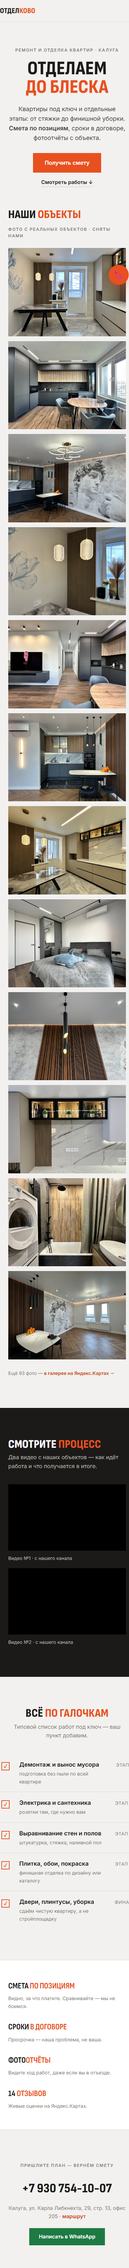
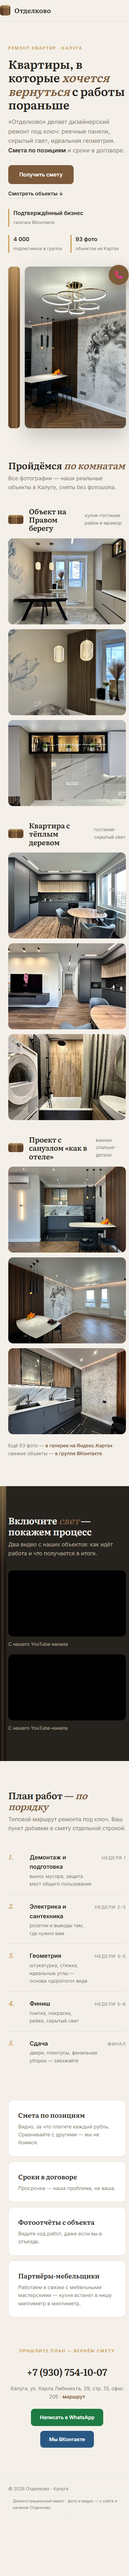
Отделково v3: интерьерный стиль по frontend-design (рейки-мотив, Literata, палитра из их фото), факты ВК (4000 подписчиков), объекты «комнатами»

diff --git a/demos/remont-otdelkovo/index.html b/demos/remont-otdelkovo/index.html
@@ -4,217 +4,259 @@
 <meta charset="UTF-8">
 <meta name="viewport" content="width=device-width, initial-scale=1.0">
 <meta name="robots" content="noindex, nofollow">
-<title>Отделково — ремонт и отделка квартир в Калуге</title>
-<meta name="description" content="Отделково: ремонт квартир под ключ в Калуге. Реальные объекты, видео с процессом, смета по позициям. Карла Либкнехта, 29.">
+<title>Отделково — ремонт квартир в Калуге</title>
+<meta name="description" content="Отделково: дизайнерский ремонт квартир под ключ в Калуге. Реальные объекты, видео, смета по позициям. Подтверждённый бизнес ВКонтакте.">
 <link rel="preconnect" href="https://fonts.googleapis.com">
 <link rel="preconnect" href="https://fonts.gstatic.com" crossorigin>
-<link href="https://fonts.googleapis.com/css2?family=Sofia+Sans+Condensed:wght@600;700;800&family=Inter:wght@400;500;600&display=swap" rel="stylesheet">
+<link href="https://fonts.googleapis.com/css2?family=Literata:wght@500;600&family=Inter:wght@400;500;600&display=swap" rel="stylesheet">
 <style>
 :root{
-  --plaster:#F2F1EF; --paperc:#FFFFFF; --coal:#1B1A18; --graph:#3E3C38;
-  --sig:#E8501F; --sig-d:#C73E12; --muted:#7C7972; --hair:#DEDCD6; --ease:cubic-bezier(.625,.05,0,1);
+  --plasterw:#F4F0E9; --room:#FFFFFF; --coffee:#26221E; --walnut:#7C5A3A; --walnut-d:#5E4128;
+  --brass:#C99A4B; --muted:#847A6C; --hair:#E4DDD1; --ease:cubic-bezier(.33,.02,.2,1);
 }
 *{margin:0;padding:0;box-sizing:border-box}
 html{scroll-behavior:smooth}
-body{font-family:'Inter',system-ui,sans-serif;background:var(--plaster);color:var(--coal);line-height:1.6;font-size:16px}
-.wrap{max-width:1140px;margin:0 auto;padding:0 24px}
-h1,h2,.cond{font-family:'Sofia Sans Condensed',sans-serif;text-transform:uppercase;line-height:.96;letter-spacing:.01em}
-.cap{font-size:12px;font-weight:600;letter-spacing:.14em;text-transform:uppercase;color:var(--muted)}
+body{font-family:'Inter',system-ui,sans-serif;background:var(--plasterw);color:var(--coffee);line-height:1.62;font-size:16px}
+.wrap{max-width:1120px;margin:0 auto;padding:0 24px}
+h1,h2,h3{font-family:'Literata',Georgia,serif;font-weight:600;line-height:1.16;letter-spacing:-.01em}
+.cap{font-size:12px;font-weight:600;letter-spacing:.16em;text-transform:uppercase;color:var(--brass)}
 
-header{position:sticky;top:0;z-index:50;background:rgba(242,241,239,.9);backdrop-filter:blur(12px);border-bottom:1px solid var(--hair)}
-.hrow{display:flex;align-items:center;justify-content:space-between;gap:12px;padding:14px 0}
-.logo{font-family:'Sofia Sans Condensed',sans-serif;font-weight:800;font-size:22px;text-transform:uppercase;
-  color:var(--coal);text-decoration:none;letter-spacing:.02em}
-.logo span{color:var(--sig)}
+/* фирменные рейки с тёплой подсветкой */
+.slats{background:
+  linear-gradient(180deg, rgba(255,214,140,.5), rgba(255,214,140,0) 34%),
+  repeating-linear-gradient(90deg, var(--walnut-d) 0 10px, var(--walnut) 10px 22px, #8F6B47 22px 26px, var(--walnut-d) 26px 34px)}
+
+header{position:sticky;top:0;z-index:50;background:rgba(244,240,233,.92);backdrop-filter:blur(12px);border-bottom:1px solid var(--hair)}
+.hrow{display:flex;align-items:center;justify-content:space-between;gap:12px;padding:15px 0}
+.logo{display:flex;align-items:center;gap:12px;color:var(--coffee);text-decoration:none}
+.logo .mark{width:30px;height:30px;border-radius:7px}
+.logo b{font-family:'Literata',serif;font-weight:600;font-size:19px}
 .hbtns{display:flex;gap:16px;align-items:center}
-.hwa{color:#1E7A43;text-decoration:none;font-weight:600;font-size:14px}
-.htel{background:var(--coal);color:#fff;text-decoration:none;font-weight:600;font-size:14.5px;
-  padding:11px 20px;transition:background .25s var(--ease)}
+.hvk{color:#2A5885;text-decoration:none;font-weight:600;font-size:14px}
+.htel{background:var(--coffee);color:#F4F0E9;text-decoration:none;font-weight:500;font-size:14.5px;
+  padding:11px 22px;border-radius:10px;transition:background .3s var(--ease)}
 .htel:hover{background:#000}
 
-/* hero: типографика + сразу работы */
-.hero{padding:72px 0 0;text-align:center}
-.hero .cap{display:block;margin-bottom:18px}
-.hero h1{font-size:clamp(56px,11vw,132px);font-weight:800;color:var(--coal)}
-.hero h1 em{font-style:normal;color:var(--sig)}
-.hero .sub{margin:22px auto 30px;font-size:17.5px;color:var(--graph);max-width:52ch}
-.hero .sub b{font-weight:600}
-.cta-row{display:flex;gap:16px;justify-content:center;align-items:center;flex-wrap:wrap}
-.btn{display:inline-block;background:var(--sig);color:#fff;text-decoration:none;font-weight:600;font-size:16px;
-  padding:16px 34px;transition:all .25s var(--ease)}
-.btn:hover{background:var(--sig-d);transform:translateY(-2px)}
-.ghost{color:var(--coal);text-decoration:none;font-weight:600;font-size:15px;border-bottom:2px solid var(--hair)}
-.ghost:hover{border-color:var(--sig)}
+/* hero: сплит с реечной вставкой */
+.hero{padding:64px 0 72px}
+.hero .grid{display:grid;grid-template-columns:1fr;gap:40px;align-items:center}
+@media(min-width:940px){.hero .grid{grid-template-columns:1.02fr .98fr}}
+.hero h1{font-size:clamp(34px,4.8vw,54px);max-width:17ch}
+.hero h1 em{font-style:italic;color:var(--walnut)}
+.hero .sub{margin:18px 0 28px;color:var(--muted);font-size:17px;max-width:46ch}
+.hero .sub b{color:var(--coffee);font-weight:600}
+.cta-row{display:flex;gap:16px;align-items:center;flex-wrap:wrap}
+.btn{display:inline-block;background:var(--walnut);color:#fff;text-decoration:none;font-weight:600;font-size:15.5px;
+  padding:15px 32px;border-radius:10px;transition:all .3s var(--ease)}
+.btn:hover{background:var(--walnut-d);transform:translateY(-2px);box-shadow:0 14px 30px rgba(124,90,58,.3)}
+.ghost{color:var(--coffee);text-decoration:none;font-weight:600;font-size:15px;border-bottom:2px solid var(--hair)}
+.ghost:hover{border-color:var(--brass)}
+.trust{display:flex;gap:24px;margin-top:30px;flex-wrap:wrap}
+.trust div{border-left:3px solid var(--brass);padding-left:12px}
+.trust b{display:block;font-size:16px}
+.trust span{color:var(--muted);font-size:13px}
+.hero-visual{display:grid;grid-template-columns:34px 1fr;gap:14px;align-items:stretch}
+.hero-visual .slats{border-radius:10px}
+.hero-visual img{width:100%;height:min(58vh,470px);object-fit:cover;border-radius:14px;display:block;
+  box-shadow:0 24px 54px rgba(38,34,30,.22)}
 
-/* мозаика реальных работ */
-.works{padding:64px 0 90px}
-.works .head{display:flex;align-items:baseline;justify-content:space-between;gap:16px;flex-wrap:wrap;margin-bottom:26px}
-h2{font-size:clamp(34px,5.4vw,64px);font-weight:800;color:var(--coal)}
-h2 em{font-style:normal;color:var(--sig)}
-.masonry{columns:1;column-gap:14px}
-@media(min-width:640px){.masonry{columns:2}}
-@media(min-width:960px){.masonry{columns:3}}
-.masonry figure{break-inside:avoid;margin-bottom:14px;position:relative;overflow:hidden;background:#fff}
-.masonry img{width:100%;display:block;transition:transform .5s var(--ease)}
-.masonry figure:hover img{transform:scale(1.03)}
-.masonry figcaption{position:absolute;left:0;bottom:0;right:0;padding:30px 14px 10px;font-size:12.5px;color:#fff;
-  background:linear-gradient(transparent,rgba(27,26,24,.72));opacity:0;transition:opacity .3s}
-.masonry figure:hover figcaption{opacity:1}
-.works .note{margin-top:16px;font-size:13.5px;color:var(--muted)}
+section{padding:84px 0}
+h2{font-size:clamp(27px,3.6vw,40px);margin-bottom:10px}
+h2 em{font-style:italic;color:var(--walnut)}
+.lead{color:var(--muted);max-width:56ch;margin-bottom:36px}
 
-/* видео: тёмная полоса */
-.video-band{background:var(--coal);color:#fff;padding:90px 0}
-.video-band h2{color:#fff;margin-bottom:8px}
-.video-band .lead{color:#B9B6AF;max-width:56ch;margin-bottom:40px}
+/* объекты «комнатами» */
+.room-head{display:flex;align-items:center;gap:16px;margin:44px 0 18px}
+.room-head .slats{width:44px;height:26px;border-radius:6px;flex-shrink:0}
+.room-head h3{font-size:21px}
+.room-head span{color:var(--muted);font-size:13.5px;margin-left:auto}
+.row3{display:grid;grid-template-columns:1fr;gap:14px}
+@media(min-width:760px){.row3{grid-template-columns:1fr 1fr 1fr}}
+.row3 figure{border-radius:14px;overflow:hidden;background:var(--room)}
+.row3 img{width:100%;height:250px;object-fit:cover;display:block;transition:transform .5s var(--ease)}
+.row3 figure:hover img{transform:scale(1.03)}
+.gal-note{margin-top:22px;font-size:14px;color:var(--muted)}
+.gal-note a{color:var(--walnut);font-weight:600;text-decoration:none}
+.gal-note a:hover{text-decoration:underline}
+
+/* видео: тёплая тёмная «медиазона» */
+.media{background:var(--coffee);color:#F4F0E9;position:relative;overflow:hidden}
+.media::before{content:"";position:absolute;top:0;bottom:0;left:0;width:18px;opacity:.9;
+  background:linear-gradient(180deg, rgba(255,214,140,.45), rgba(255,214,140,0) 30%),
+  repeating-linear-gradient(90deg, #171310 0 5px, #3A2C1E 5px 10px, #171310 10px 16px)}
+.media h2{color:#F4F0E9}
+.media .lead{color:#B9AE9D}
 .vgrid{display:grid;grid-template-columns:1fr;gap:18px}
 @media(min-width:880px){.vgrid{grid-template-columns:1fr 1fr}}
-.vbox{position:relative;aspect-ratio:16/9;background:#000;overflow:hidden}
+.vbox{position:relative;aspect-ratio:16/9;background:#000;border-radius:14px;overflow:hidden}
 .vbox iframe{position:absolute;inset:0;width:100%;height:100%;border:0}
-.vcap{margin-top:12px;font-size:13.5px;color:#B9B6AF}
+.vcap{margin-top:12px;font-size:13.5px;color:#B9AE9D}
 
-/* чек-лист: строгие линии */
-.list-sec{padding:90px 0}
-.checkrows{max-width:720px;margin:40px auto 0}
-.chk{display:grid;grid-template-columns:34px 1fr auto;gap:18px;align-items:baseline;padding:18px 4px;border-bottom:1px solid var(--hair)}
-.chk:last-child{border:none}
-.chk .tick{width:24px;height:24px;border:2px solid var(--sig);display:flex;align-items:center;justify-content:center;
-  color:var(--sig);font-weight:700;font-size:14px;transform:translateY(4px)}
-.chk b{font-weight:600;font-size:17px}
-.chk small{display:block;color:var(--muted);font-size:14px;font-weight:400;margin-top:2px}
-.chk .who{color:var(--muted);font-size:13px;white-space:nowrap;letter-spacing:.06em;text-transform:uppercase}
+/* план работ строками */
+.plan{max-width:720px}
+.prow{display:grid;grid-template-columns:44px 1fr auto;gap:18px;align-items:baseline;padding:18px 0;border-bottom:1px solid var(--hair)}
+.prow:last-child{border:none}
+.prow .n{font-family:'Literata',serif;font-style:italic;color:var(--brass);font-size:19px}
+.prow b{font-weight:600;font-size:17px}
+.prow small{display:block;color:var(--muted);font-size:14px;font-weight:400;margin-top:2px}
+.prow .tagp{color:var(--muted);font-size:12.5px;letter-spacing:.1em;text-transform:uppercase;white-space:nowrap}
 
-/* гарантии полосой */
-.gar{background:var(--paperc);border-top:1px solid var(--hair);border-bottom:1px solid var(--hair);padding:56px 0}
-.gar .wrap{display:grid;grid-template-columns:1fr;gap:30px}
-@media(min-width:820px){.gar .wrap{grid-template-columns:1fr 1fr 1fr 1fr}}
-.g b{display:block;font-family:'Sofia Sans Condensed',sans-serif;font-size:24px;font-weight:700;text-transform:uppercase;margin-bottom:6px}
-.g b em{font-style:normal;color:var(--sig)}
-.g p{color:var(--muted);font-size:14px}
+/* гарантии карточками-«стенами» */
+.walls{display:grid;grid-template-columns:1fr;gap:14px}
+@media(min-width:820px){.walls{grid-template-columns:1fr 1fr}}
+.wall{background:var(--room);border-radius:14px;padding:28px;border:1px solid var(--hair)}
+.wall b{display:block;font-family:'Literata',serif;font-size:19px;font-weight:600;margin-bottom:6px}
+.wall p{color:var(--muted);font-size:14.5px}
 
-/* контакты */
-.final{padding:90px 0;text-align:center}
-.final .tel{font-family:'Sofia Sans Condensed',sans-serif;font-weight:800;font-size:clamp(38px,7vw,72px);
-  color:var(--coal);text-decoration:none;text-transform:uppercase;letter-spacing:.01em}
-.final .tel:hover{color:var(--sig)}
-.final p{color:var(--muted);margin-top:14px;font-size:15px}
-.final a.lnk{color:var(--sig-d);font-weight:600;text-decoration:none}
-.final .wa{display:inline-block;margin-top:22px;background:#1E7A43;color:#fff;text-decoration:none;
-  font-weight:600;font-size:15px;padding:13px 28px}
-.final .wa:hover{filter:brightness(1.08)}
+/* финал */
+.final{text-align:center}
+.final .tel{font-family:'Literata',serif;font-weight:600;font-size:clamp(28px,5vw,44px);color:var(--coffee);text-decoration:none}
+.final .tel:hover{color:var(--walnut)}
+.final p{color:var(--muted);margin-top:14px;font-size:14.5px}
+.final a.lnk{color:var(--walnut);font-weight:600;text-decoration:none}
+.final .row{margin-top:24px;display:flex;gap:14px;justify-content:center;flex-wrap:wrap}
+.final .wa{display:inline-block;background:#1E7A43;color:#fff;text-decoration:none;font-weight:600;
+  font-size:14.5px;padding:13px 26px;border-radius:10px}
+.final .vk{display:inline-block;background:#2A5885;color:#fff;text-decoration:none;font-weight:600;
+  font-size:14.5px;padding:13px 26px;border-radius:10px}
+.final .wa:hover,.final .vk:hover{filter:brightness(1.08)}
 
 footer{border-top:1px solid var(--hair);color:var(--muted);padding:24px 0;font-size:13px}
 footer .wrap{display:flex;flex-wrap:wrap;gap:10px;justify-content:space-between;align-items:center}
-.demo-badge{border:1px dashed var(--hair);padding:5px 12px;font-size:11.5px;letter-spacing:.06em;text-transform:uppercase}
-.fab{display:none;position:fixed;right:16px;bottom:16px;z-index:60;background:var(--sig);color:#fff;
+.demo-badge{border:1px dashed var(--hair);border-radius:10px;padding:5px 12px;font-size:11.5px}
+.fab{display:none;position:fixed;right:16px;bottom:16px;z-index:60;background:var(--walnut);color:#fff;
   width:58px;height:58px;align-items:center;justify-content:center;font-size:24px;text-decoration:none;border-radius:50%;
-  box-shadow:0 10px 26px rgba(232,80,31,.4)}
+  box-shadow:0 10px 26px rgba(124,90,58,.45)}
 @media(max-width:640px){.fab{display:flex}.hbtns{display:none}}
-.reveal{opacity:0;transform:translateY(20px);transition:opacity .6s var(--ease),transform .6s var(--ease)}
+.reveal{opacity:0;transform:translateY(20px);transition:opacity .7s var(--ease),transform .7s var(--ease)}
 .reveal.on{opacity:1;transform:none}
 @media (prefers-reduced-motion: reduce){.reveal{opacity:1;transform:none;transition:none}html{scroll-behavior:auto}}
-a:focus-visible,.btn:focus-visible{outline:3px solid var(--sig);outline-offset:2px}
+a:focus-visible,.btn:focus-visible{outline:3px solid var(--brass);outline-offset:2px}
 </style>
 </head>
 <body>
 
 <header><div class="wrap hrow">
-  <a class="logo" href="#">ОТДЕЛ<span>КОВО</span></a>
+  <a class="logo" href="#"><span class="mark slats"></span><b>Отделково</b></a>
   <div class="hbtns">
-    <a class="hwa" href="https://wa.me/79307541007" target="_blank" rel="noopener">WhatsApp</a>
+    <a class="hvk" href="https://vk.ru/otdelkovo" target="_blank" rel="noopener">ВКонтакте · 4 000 подписчиков</a>
     <a class="htel" href="tel:+79307541007">+7 (930) 754-10-07</a>
   </div>
 </div></header>
 
 <section class="hero">
-  <div class="wrap">
-    <span class="cap reveal on">Ремонт и отделка квартир · Калуга</span>
-    <h1 class="reveal on">Отделаем<br><em>до блеска</em></h1>
-    <p class="sub reveal on">Квартиры под ключ и отдельные этапы: от стяжки до финишной уборки.
-    <b>Смета по позициям</b>, сроки в договоре, фотоотчёты с объекта.</p>
-    <div class="cta-row reveal on">
-      <a class="btn" href="tel:+79307541007">Получить смету</a>
-      <a class="ghost" href="#works">Смотреть работы ↓</a>
+  <div class="wrap grid">
+    <div>
+      <span class="cap reveal on">Ремонт квартир · Калуга</span>
+      <h1 class="reveal on" style="margin-top:14px">Квартиры, в которые <em>хочется вернуться</em> с работы пораньше</h1>
+      <p class="sub reveal on">«Отделково» делает дизайнерский ремонт под ключ: реечные панели, скрытый свет,
+      идеальная геометрия. <b>Смета по позициям</b> и сроки в договоре.</p>
+      <div class="cta-row reveal on">
+        <a class="btn" href="tel:+79307541007">Получить смету</a>
+        <a class="ghost" href="#works">Смотреть объекты ↓</a>
+      </div>
+      <div class="trust reveal on">
+        <div><b>Подтверждённый бизнес</b><span>галочка ВКонтакте</span></div>
+        <div><b>4 000</b><span>подписчиков в группе</span></div>
+        <div><b>93 фото</b><span>объектов на Картах</span></div>
+      </div>
+    </div>
+    <div class="hero-visual reveal on">
+      <span class="slats" aria-hidden="true"></span>
+      <img src="assets/work/insta3-1.jpg" alt="Интерьер с реечной панелью — объект Отделково" width="1080" height="1080">
     </div>
   </div>
 </section>
 
-<section class="works" id="works">
+<section id="works" style="padding-top:20px">
   <div class="wrap">
-    <div class="head reveal">
-      <h2>Наши <em>объекты</em></h2>
-      <span class="cap">фото с реальных объектов · сняты нами</span>
+    <h2 class="reveal">Пройдёмся <em>по комнатам</em></h2>
+    <p class="lead reveal">Все фотографии — наши реальные объекты в Калуге, сняты без фотошопа.</p>
+
+    <div class="room-head reveal"><span class="slats"></span><h3>Объект на Правом берегу</h3><span>кухня-гостиная · рейки и мрамор</span></div>
+    <div class="row3 reveal">
+      <figure><img src="assets/work/insta1-1.jpg" alt="Объект 1 — вид 1" loading="lazy"></figure>
+      <figure><img src="assets/work/insta1-2.jpg" alt="Объект 1 — вид 2" loading="lazy"></figure>
+      <figure><img src="assets/work/insta1-4.jpg" alt="Объект 1 — вид 3" loading="lazy"></figure>
     </div>
-    <div class="masonry reveal">
-      <figure><img src="assets/work/insta1-1.jpg" alt="Объект Отделково" loading="lazy"><figcaption>Объект №1 · Калуга</figcaption></figure>
-      <figure><img src="assets/work/insta2-1.jpg" alt="Объект Отделково" loading="lazy"><figcaption>Объект №2 · Калуга</figcaption></figure>
-      <figure><img src="assets/work/insta3-1.jpg" alt="Объект Отделково" loading="lazy"><figcaption>Объект №3 · Калуга</figcaption></figure>
-      <figure><img src="assets/work/insta1-2.jpg" alt="Объект Отделково" loading="lazy"><figcaption>Объект №1 · Калуга</figcaption></figure>
-      <figure><img src="assets/work/insta2-2.jpg" alt="Объект Отделково" loading="lazy"><figcaption>Объект №2 · Калуга</figcaption></figure>
-      <figure><img src="assets/work/insta3-2.jpg" alt="Объект Отделково" loading="lazy"><figcaption>Объект №3 · Калуга</figcaption></figure>
-      <figure><img src="assets/work/insta1-3.jpg" alt="Объект Отделково" loading="lazy"><figcaption>Объект №1 · Калуга</figcaption></figure>
-      <figure><img src="assets/work/insta2-3.jpg" alt="Объект Отделково" loading="lazy"><figcaption>Объект №2 · Калуга</figcaption></figure>
-      <figure><img src="assets/work/insta3-3.jpg" alt="Объект Отделково" loading="lazy"><figcaption>Объект №3 · Калуга</figcaption></figure>
-      <figure><img src="assets/work/insta1-4.jpg" alt="Объект Отделково" loading="lazy"><figcaption>Объект №1 · Калуга</figcaption></figure>
-      <figure><img src="assets/work/insta2-4.jpg" alt="Объект Отделково" loading="lazy"><figcaption>Объект №2 · Калуга</figcaption></figure>
-      <figure><img src="assets/work/insta3-4.jpg" alt="Объект Отделково" loading="lazy"><figcaption>Объект №3 · Калуга</figcaption></figure>
+
+    <div class="room-head reveal"><span class="slats"></span><h3>Квартира с тёплым деревом</h3><span>гостиная · скрытый свет</span></div>
+    <div class="row3 reveal">
+      <figure><img src="assets/work/insta2-1.jpg" alt="Объект 2 — вид 1" loading="lazy"></figure>
+      <figure><img src="assets/work/insta2-2.jpg" alt="Объект 2 — вид 2" loading="lazy"></figure>
+      <figure><img src="assets/work/insta2-4.jpg" alt="Объект 2 — вид 3" loading="lazy"></figure>
     </div>
-    <p class="note">Ещё 93 фото — <a class="lnk" style="color:var(--sig-d);font-weight:600;text-decoration:none" href="https://yandex.ru/maps/org/otdelkovo/1208603559/gallery/" target="_blank" rel="noopener">в галерее на Яндекс.Картах →</a></p>
+
+    <div class="room-head reveal"><span class="slats"></span><h3>Проект с санузлом «как в отеле»</h3><span>ванная · спальня · детали</span></div>
+    <div class="row3 reveal">
+      <figure><img src="assets/work/insta3-2.jpg" alt="Объект 3 — вид 1" loading="lazy"></figure>
+      <figure><img src="assets/work/insta3-4.jpg" alt="Объект 3 — вид 2" loading="lazy"></figure>
+      <figure><img src="assets/work/insta3-5.jpg" alt="Объект 3 — вид 3" loading="lazy"></figure>
+    </div>
+
+    <p class="gal-note reveal">Ещё 93 фото — <a href="https://yandex.ru/maps/org/otdelkovo/1208603559/gallery/" target="_blank" rel="noopener">в галерее на Яндекс.Картах</a> ·
+    свежие объекты — <a href="https://vk.ru/otdelkovo" target="_blank" rel="noopener">в группе ВКонтакте</a></p>
   </div>
 </section>
 
-<section class="video-band">
+<section class="media">
   <div class="wrap">
-    <h2 class="reveal">Смотрите <em>процесс</em></h2>
-    <p class="lead reveal">Два видео с наших объектов — как идёт работа и что получается в итоге.</p>
+    <h2 class="reveal">Включите <em>свет</em> — покажем процесс</h2>
+    <p class="lead reveal">Два видео с наших объектов: как идёт работа и что получается в итоге.</p>
     <div class="vgrid reveal">
       <div>
         <div class="vbox"><iframe src="https://www.youtube.com/embed/xiVanxQIWAY" title="Отделково — видео с объекта" loading="lazy" allow="accelerometer; autoplay; clipboard-write; encrypted-media; gyroscope; picture-in-picture" allowfullscreen></iframe></div>
-        <p class="vcap">Видео №1 · с нашего канала</p>
+        <p class="vcap">С нашего YouTube-канала</p>
       </div>
       <div>
         <div class="vbox"><iframe src="https://www.youtube.com/embed/CqCb6OWvdbE" title="Отделково — видео с объекта" loading="lazy" allow="accelerometer; autoplay; clipboard-write; encrypted-media; gyroscope; picture-in-picture" allowfullscreen></iframe></div>
-        <p class="vcap">Видео №2 · с нашего канала</p>
+        <p class="vcap">С нашего YouTube-канала</p>
       </div>
     </div>
   </div>
 </section>
 
-<section class="list-sec">
-  <div class="wrap" style="text-align:center">
-    <h2 class="reveal">Всё <em>по галочкам</em></h2>
-    <p class="reveal" style="color:var(--muted);margin-top:10px">Типовой список работ под ключ — ваш пункт добавим.</p>
-  </div>
-  <div class="checkrows reveal">
-    <div class="chk"><span class="tick">✓</span><span><b>Демонтаж и вынос мусора</b><small>подготовка без пыли по всей квартире</small></span><span class="who">этап 1</span></div>
-    <div class="chk"><span class="tick">✓</span><span><b>Электрика и сантехника</b><small>розетки там, где нужно вам</small></span><span class="who">этап 2</span></div>
-    <div class="chk"><span class="tick">✓</span><span><b>Выравнивание стен и полов</b><small>штукатурка, стяжка, наливной пол</small></span><span class="who">этап 3</span></div>
-    <div class="chk"><span class="tick">✓</span><span><b>Плитка, обои, покраска</b><small>финишная отделка по дизайну или каталогу</small></span><span class="who">этап 4</span></div>
-    <div class="chk"><span class="tick">✓</span><span><b>Двери, плинтусы, уборка</b><small>сдаём чистую квартиру, а не стройплощадку</small></span><span class="who">финал</span></div>
+<section>
+  <div class="wrap">
+    <h2 class="reveal">План работ — <em>по порядку</em></h2>
+    <p class="lead reveal">Типовой маршрут ремонта под ключ. Ваш пункт добавим в смету отдельной строкой.</p>
+    <div class="plan reveal">
+      <div class="prow"><span class="n">1.</span><span><b>Демонтаж и подготовка</b><small>вынос мусора, защита мест общего пользования</small></span><span class="tagp">неделя 1</span></div>
+      <div class="prow"><span class="n">2.</span><span><b>Электрика и сантехника</b><small>розетки и выводы там, где нужно вам</small></span><span class="tagp">недели 2–3</span></div>
+      <div class="prow"><span class="n">3.</span><span><b>Геометрия</b><small>штукатурка, стяжка, идеальные углы — основа «дорогого» вида</small></span><span class="tagp">недели 3–5</span></div>
+      <div class="prow"><span class="n">4.</span><span><b>Финиш</b><small>плитка, покраска, рейки, скрытый свет</small></span><span class="tagp">недели 5–8</span></div>
+      <div class="prow"><span class="n">5.</span><span><b>Сдача</b><small>двери, плинтусы, финальная уборка — заезжайте</small></span><span class="tagp">финал</span></div>
+    </div>
   </div>
 </section>
 
-<div class="gar">
+<section style="padding-top:0">
   <div class="wrap">
-    <div class="g reveal"><b>Смета <em>по позициям</em></b><p>Видно, за что платите. Сравнивайте — мы не боимся.</p></div>
-    <div class="g reveal"><b>Сроки <em>в договоре</em></b><p>Просрочка — наша проблема, не ваша.</p></div>
-    <div class="g reveal"><b>Фото<em>отчёты</em></b><p>Видите ход работ, даже если вы в отъезде.</p></div>
-    <div class="g reveal"><b>14 <em>отзывов</em></b><p>Живые оценки на Яндекс.Картах.</p></div>
+    <div class="walls">
+      <div class="wall reveal"><b>Смета по позициям</b><p>Видно, за что платите каждый рубль. Сравнивайте с другими — мы не боимся.</p></div>
+      <div class="wall reveal"><b>Сроки в договоре</b><p>Просрочка — наша проблема, не ваша.</p></div>
+      <div class="wall reveal"><b>Фотоотчёты с объекта</b><p>Видите ход работ, даже если вы в отъезде.</p></div>
+      <div class="wall reveal"><b>Партнёры-мебельщики</b><p>Работаем в связке с мебельными мастерскими — кухня встанет в нишу миллиметр в миллиметр.</p></div>
+    </div>
   </div>
-</div>
+</section>
 
-<section class="final" id="contact">
+<section class="final" style="padding-top:0" id="contact">
   <div class="wrap">
     <span class="cap reveal">Пришлите план — вернём смету</span><br><br>
-    <a class="tel reveal" href="tel:+79307541007">+7 930 754-10-07</a>
+    <a class="tel reveal" href="tel:+79307541007">+7 (930) 754-10-07</a>
     <p class="reveal">Калуга, ул. Карла Либкнехта, 29, стр. 13, офис 205 ·
       <a class="lnk" href="https://yandex.ru/maps/org/otdelkovo/1208603559/" target="_blank" rel="noopener">маршрут</a></p>
-    <a class="wa reveal" href="https://wa.me/79307541007" target="_blank" rel="noopener">Написать в WhatsApp</a>
+    <div class="row reveal">
+      <a class="wa" href="https://wa.me/79307541007" target="_blank" rel="noopener">Написать в WhatsApp</a>
+      <a class="vk" href="https://vk.ru/otdelkovo" target="_blank" rel="noopener">Мы ВКонтакте</a>
+    </div>
   </div>
 </section>
 
 <footer><div class="wrap">
   <span>© 2026 Отделково · Калуга</span>
-  <span class="demo-badge">Демонстрационный макет · фото и видео — с сайта otdelkovo.ru</span>
+  <span class="demo-badge">Демонстрационный макет · фото и видео — с сайта и каналов Отделково</span>
 </div></footer>
 
 <a class="fab" href="tel:+79307541007" aria-label="Позвонить">📞</a>
